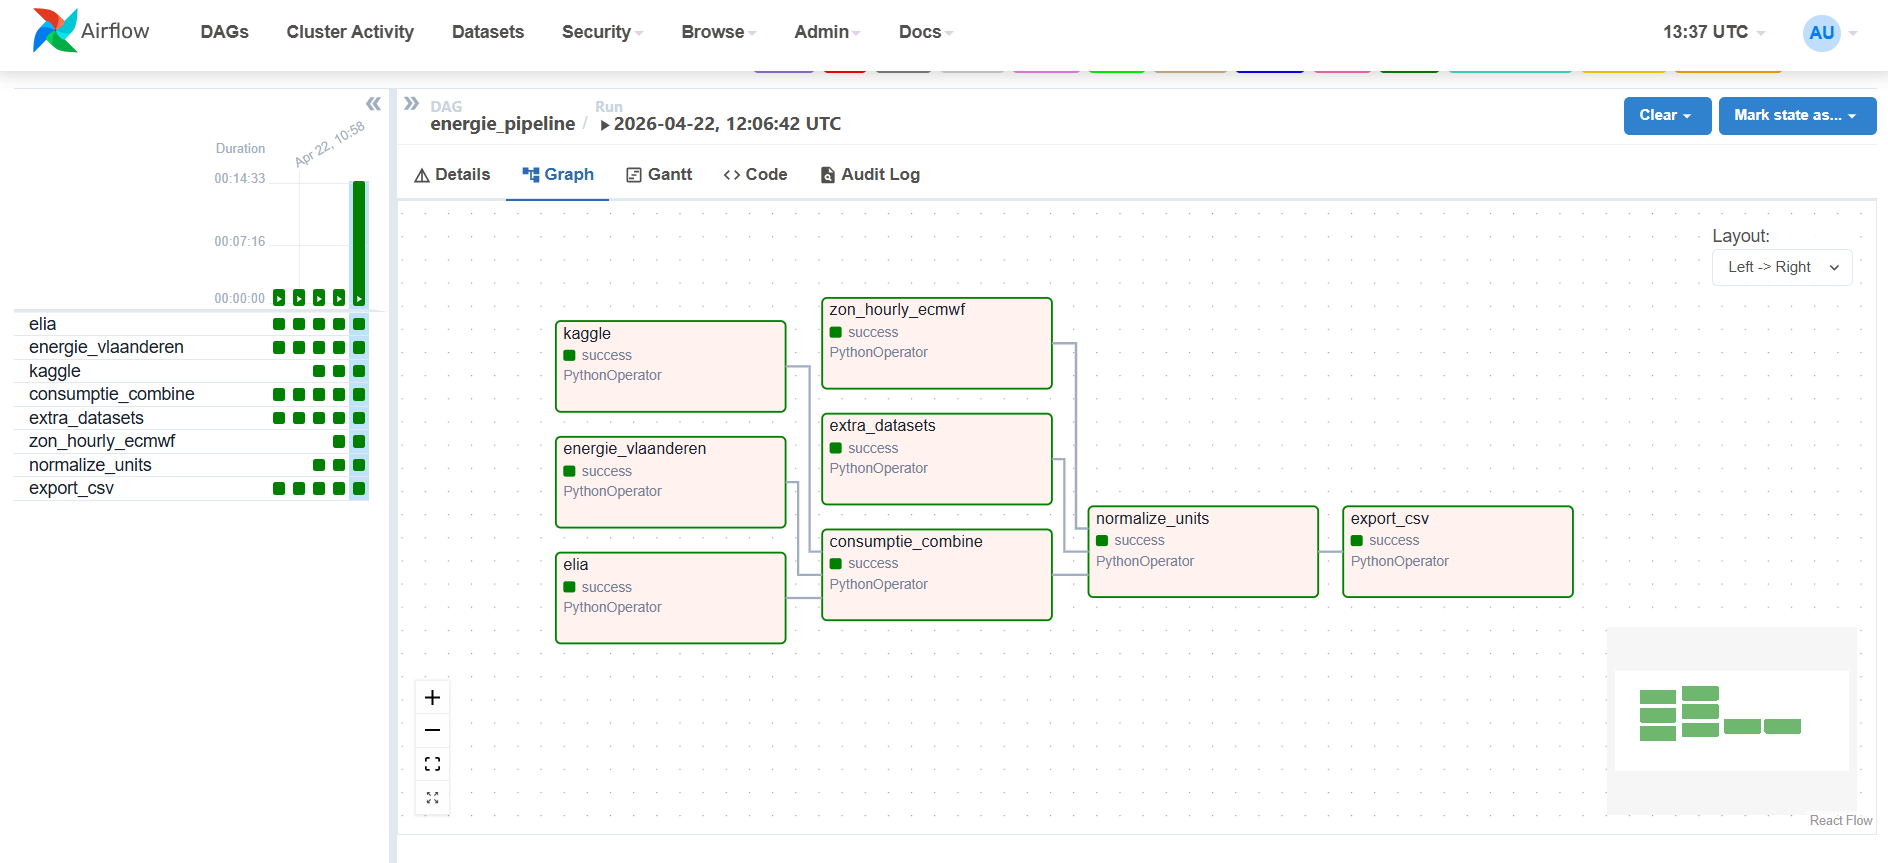
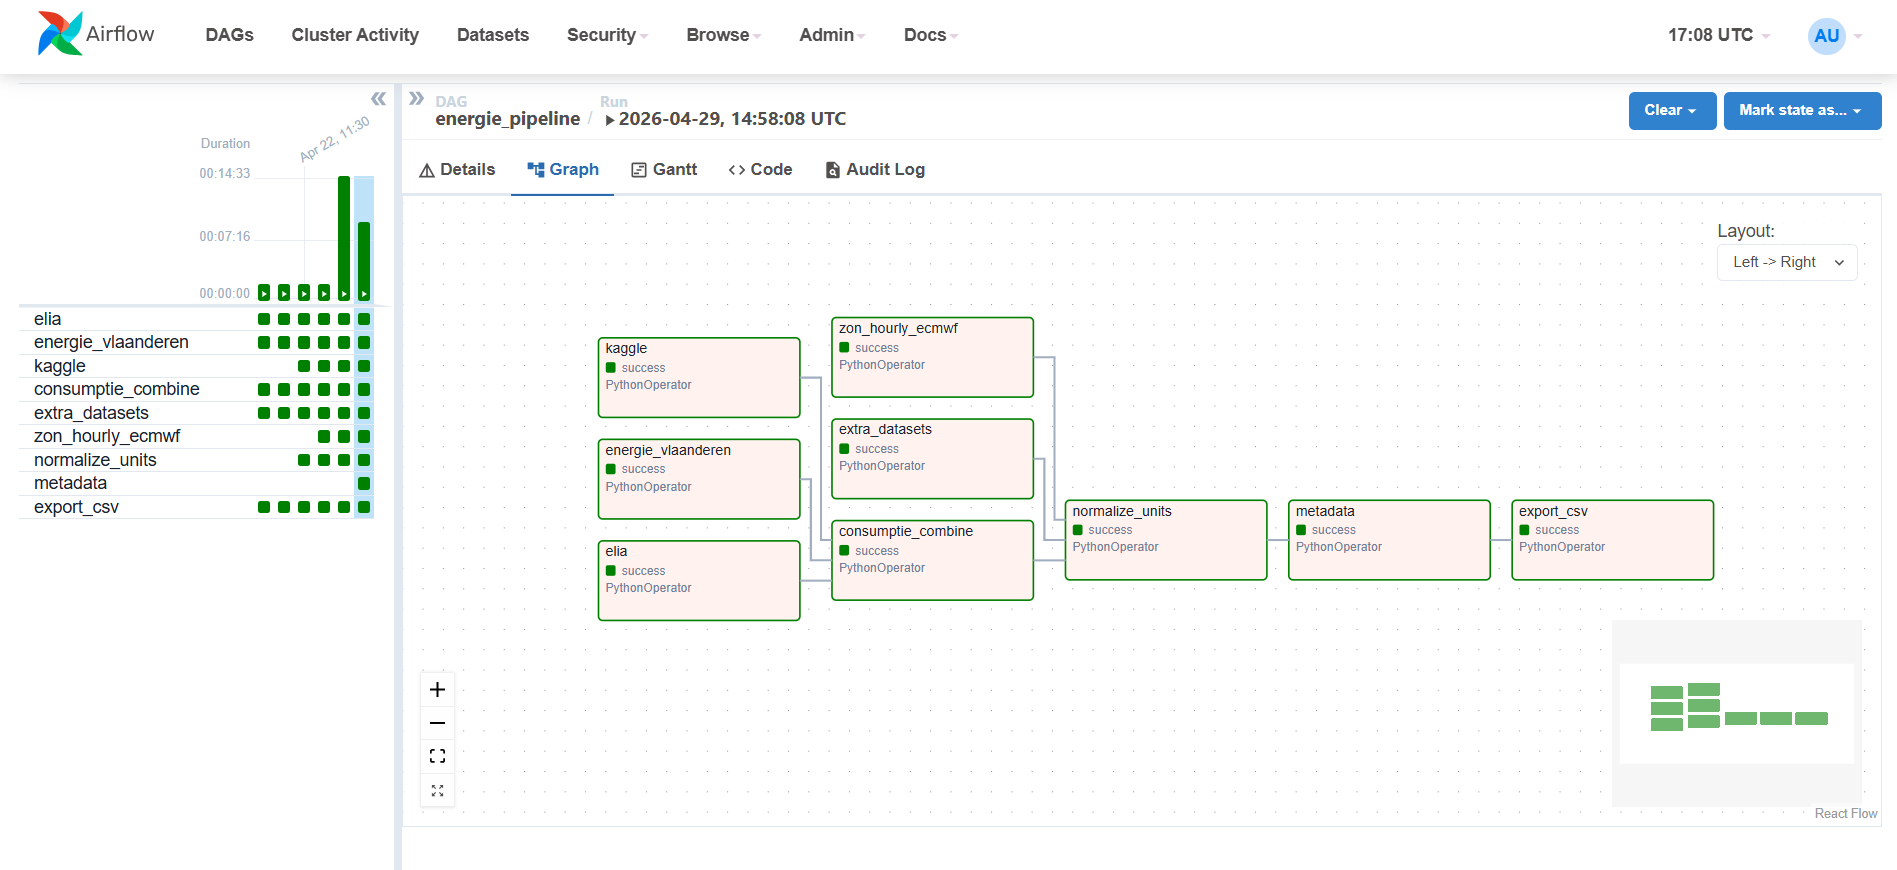
metadata tabel toegevoegd en readme aangepast

diff --git a/pipelines/metadata.py b/pipelines/metadata.py
@@ -5,8 +5,33 @@ from db import write_to_db
 def run_metadata_pipeline(engine):
     print("Start metadata pipeline...")
     with engine.connect() as conn:
-        # Haal alle tabellen in de public schema op
-        tables_query = text("SELECT table_name FROM information_schema.tables WHERE table_schema = 'public' AND table_type = 'BASE TABLE' AND table_name != 'table_metadata';")
+        # Haal alle tabellen in de public schema op (sluit Airflow systeemtabellen uit)
+        tables_query = text("""
+            SELECT table_name 
+            FROM information_schema.tables 
+            WHERE table_schema = 'public' 
+            AND table_type = 'BASE TABLE' 
+            AND table_name != 'table_metadata'
+            AND table_name NOT LIKE 'ab_%'
+            AND table_name NOT LIKE 'alembic_%'
+            AND table_name NOT LIKE 'celery_%'
+            AND table_name NOT LIKE 'dag%'
+            AND table_name NOT LIKE 'task_%'
+            AND table_name NOT LIKE 'job%'
+            AND table_name NOT LIKE 'log%'
+            AND table_name NOT LIKE 'xcom%'
+            AND table_name NOT LIKE 'connection%'
+            AND table_name NOT LIKE 'sla_%'
+            AND table_name NOT LIKE 'import_error%'
+            AND table_name NOT LIKE 'dataset%'
+            AND table_name NOT LIKE 'slot_pool%'
+            AND table_name NOT LIKE 'variable%'
+            AND table_name NOT LIKE 'rendered_%'
+            AND table_name NOT LIKE 'trigger%'
+            AND table_name NOT LIKE 'serialized_%'
+            AND table_name NOT LIKE 'session%'
+            AND table_name NOT LIKE 'sensor_%';
+        """)
         tables = conn.execute(tables_query).fetchall()
         
         metadata_list = []

diff --git a/README.md b/README.md
@@ -1,6 +1,6 @@
 # Energie Data Pipeline
 
-Deze repository bevat een geautomatiseerde data pipeline, gedreven door Apache Airflow, die energiedata ophaalt, verwerkt en opslaat in een PostgreSQL database.
+Deze repository bevat een data pipeline, door Apache Airflow, die energiedata ophaalt, verwerkt en opslaat in een PostgreSQL database.
 
 ## Architectuur en Setup
 
@@ -15,19 +15,19 @@ Deze repository bevat een geautomatiseerde data pipeline, gedreven door Apache A
 ## Datasets
 !!! folder extra_datasets bevat nog niets, download deze via digitap data engineering. En zet productie_combined, sun_combined en v_wind_alles_compleet csv bestanden in de folder extra_datasets. !!! verwijder consumptie.csv. !!!
 
-Na een succesvolle run zijn 4 tabellen aanwezig in de Postgres database. Bron-mapping volgens opdracht-spec:
+Na een succesvolle run zijn 4 tabellen aanwezig in de Postgres database:
 
 | Tabel | Bronnen (spec) | Feature | Implementatie |
 |-------|---------------|---------|---------------|
-| `consumptie` | Energie Vlaanderen, Elia, Kaggle | Grid load (MW) per uur | Elia `ods001` total_load. EV-productie-kolommen zijn bewust weggelaten (horen in `productie`). **Kaggle: known gap (geen credentials).** |
+| `consumptie` | Energie Vlaanderen, Elia, Kaggle | Grid load (MW) per uur | Elia `ods001` total_load. EV-productie-kolommen zijn bewust weggelaten (horen in `productie`). |
 | `productie` | Energie Vlaanderen, Elia | Solar & wind production (MW) per uur | `productie_combined.csv` → tabel `productie`, kolommen `vlaanderen_zon_mw`, `vlaanderen_wind_mw`, `elia_zon_mw`, `elia_wind_mw` |
-| `wind` | Open Meteo ECMWF, Geo.be, Kaggle (Uccle, Antwerpen) | Wind speed (km/h) per uur | `v_wind_alles_compleet.csv` → genormaliseerd van m/s naar km/h (×3.6). Kolommen eindigen op `_kmh`. **Kaggle: known gap.** |
-| `zon` | Open Meteo ECMWF, Geo.be, Kaggle (Uccle) | Solar radiation (W/m²) per uur | Uurlijks opgehaald via Open Meteo ECMWF archive-API voor Antwerpen (lat 51.2194, lon 4.4025). Kolommen: `ecmwf_radiation_wm2`, `ecmwf_direct_wm2`, `ecmwf_diffuse_wm2`. **Kaggle/Geo.be: known gap.** |
+| `wind` | Open Meteo ECMWF, Geo.be, Kaggle (Uccle, Antwerpen) | Wind speed (km/h) per uur | `v_wind_alles_compleet.csv` → genormaliseerd van m/s naar km/h (×3.6). Kolommen eindigen op `_kmh`.|
+| `zon` | Open Meteo ECMWF, Geo.be, Kaggle (Uccle) | Solar radiation (W/m²) per uur | Uurlijks opgehaald via Open Meteo ECMWF archive-API voor Antwerpen (lat 51.2194, lon 4.4025). Kolommen: `ecmwf_radiation_wm2`, `ecmwf_direct_wm2`, `ecmwf_diffuse_wm2`. |
 
-Het date-window (`FILTER_START` / `FILTER_END` in `.env`) stuurt Elia én de ECMWF-fetch. Default: 2024-01-01 → 2026-03-31.
+**pas het date window aan in de .env file als je meer data wilt downloaden**, het date-window (`FILTER_START` / `FILTER_END` in `.env`) stuurt Elia én de ECMWF-fetch. Default: 2024-01-01 → 2026-03-31.
 
 ### Dataset Structuur (Kolommen, Rijen & Waarden)
-De daadwerkelijke datasetgrootte (aantal rijen) hangt af van het geselecteerde tijdsvenster in je `.env` bestand en de historische databeschikbaarheid. Gebaseerd op de standaard tijdsperiode (ca. 2 jaar) en de huidige data, ziet de structuur er als volgt uit:
+De daadwerkelijke datasetgrootte (aantal rijen) hangt af van het geselecteerde tijdsvenster in je `.env`
 
 #### 1. `consumptie` (~19.704 rijen)
 - **Granulariteit**: Uurlijks
@@ -114,6 +114,8 @@ De daadwerkelijke datasetgrootte (aantal rijen) hangt af van het geselecteerde t
 
    > Zorg dat je eerst de pipeline hebt uitgevoerd (stap 3) voordat je data in Grafana verwacht.
 
+## Opslag
+
 ## Claude MCP Integratie
 
 Om de educatieve MCP (Model Context Protocol) server toe te voegen aan je lokale Claude omgeving, voer je het volgende commando uit. Dit zorgt ervoor dat Claude de lokale server herkent en de tools uit het script kan gebruiken:
@@ -125,6 +127,8 @@ claude mcp add mijn-educatieve-mcp python mcp_server.py
 ### airflow pipeline
 ![airflow pipeline](dag.png)
 ### grafana visualisatie
-![grafana visualisatie](image.png)
+![grafana visualisatie](grafana.png)
+### metadata visualisatie in grafana
+![grafana visualisatie](metadata.png)
 ### mcp server test met claude code
 ![mcp server](mcp.png)
